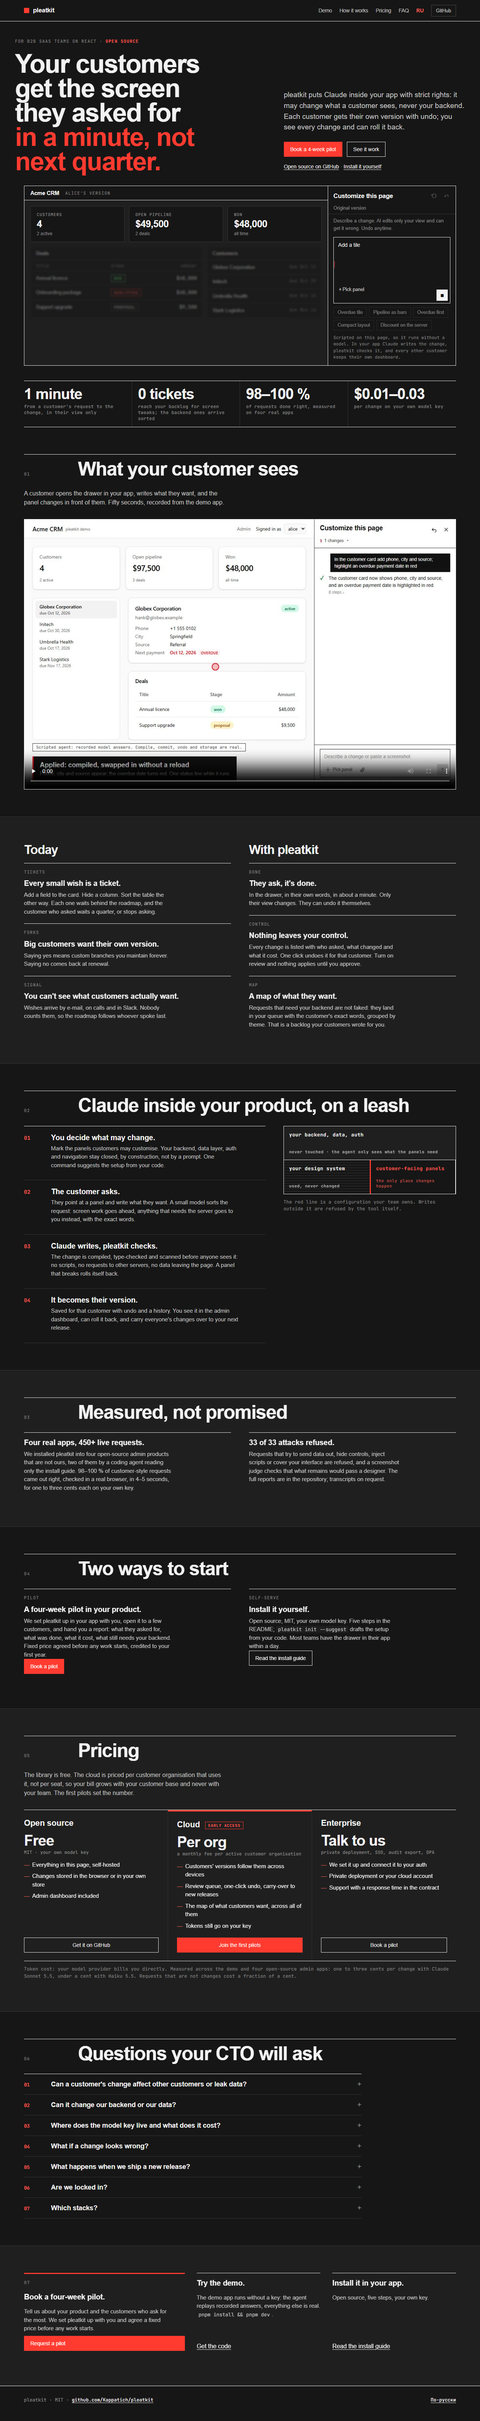
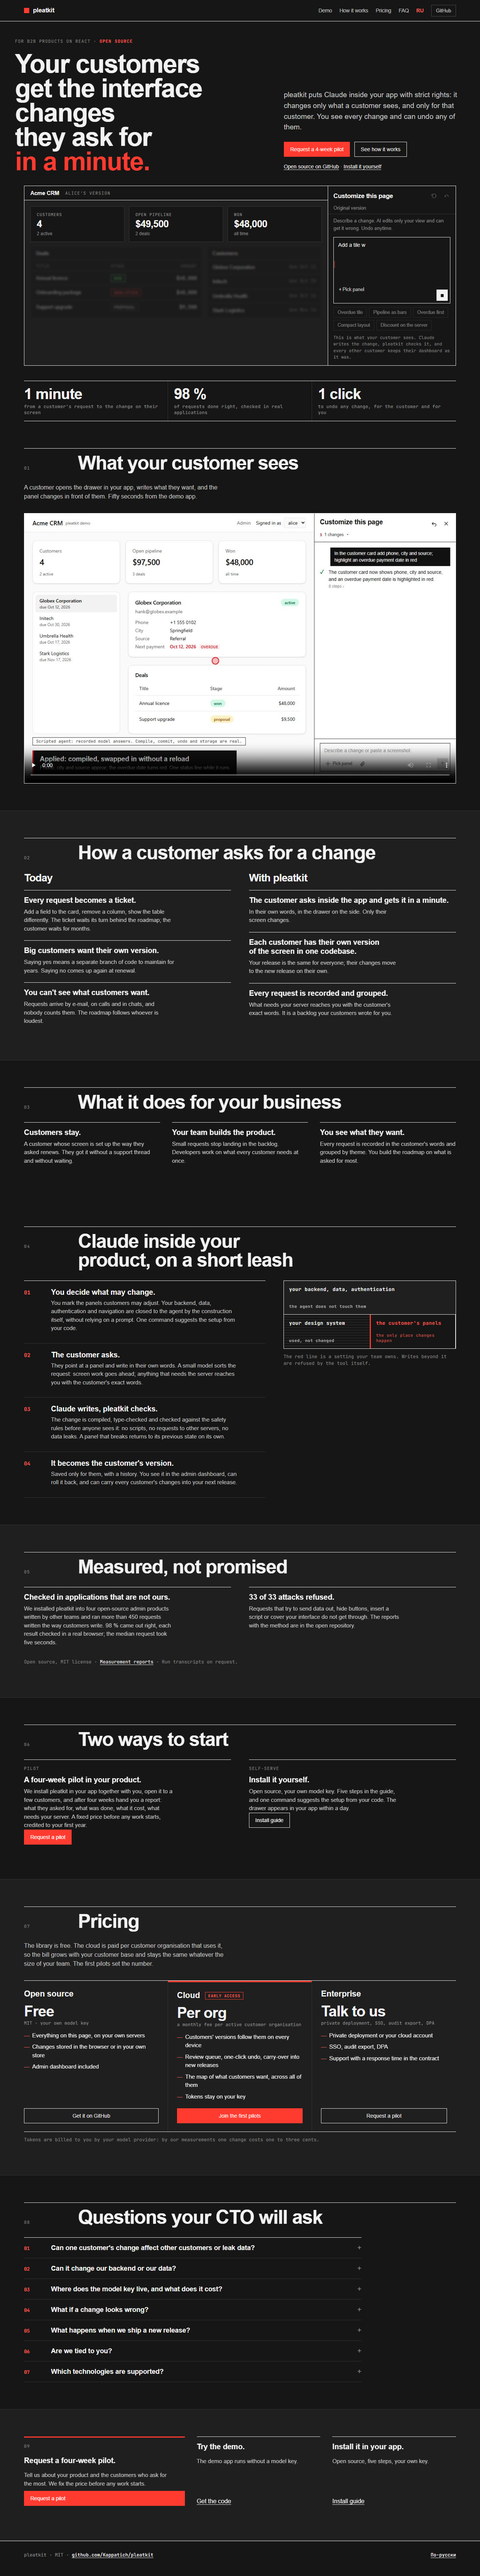
Landing v5: the English version of the reviewed master copy (benefit headline without contrasts, three numbers, today/with pleatkit, business value, how it works, proof, two ways to start, pricing, CTO FAQ)

diff --git a/site/index.html b/site/index.html
@@ -35,14 +35,14 @@
 <main>
   <div class="wrap hero">
     <div class="copy">
-      <span class="label">For B2B SaaS teams on React · <b>open source</b></span>
-      <h1>Your customers get the screen they asked for <em>in a minute, not next quarter.</em></h1>
+      <span class="label">For B2B products on React · <b>open source</b></span>
+      <h1>Your customers get the interface changes they ask for <em>in a minute.</em></h1>
     </div>
     <div class="aside">
-      <p class="lead">pleatkit puts Claude inside your app with strict rights: it may change what a customer sees, never your backend. Each customer gets their own version with undo; you see every change and can roll it back.</p>
+      <p class="lead">pleatkit puts Claude inside your app with strict rights: it changes only what a customer sees, and only for that customer. You see every change and can undo any of them.</p>
       <div class="cta">
-        <a class="btn primary" href="#pilot">Book a 4-week pilot</a>
-        <a class="btn" href="#demo">See it work</a>
+        <a class="btn primary" href="#pilot">Request a 4-week pilot</a>
+        <a class="btn" href="#demo">See how it works</a>
       </div>
       <p class="cta-more"><a href="https://github.com/Kappatich/pleatkit">Open source on GitHub</a> · <a href="https://github.com/Kappatich/pleatkit#readme">Install it yourself</a></p>
     </div>
@@ -87,24 +87,23 @@
           <button class="recipe" data-recipe="compact" data-request="Make the dashboard more compact">Compact layout</button>
           <button class="recipe" data-recipe="backend" data-request="Add a discount column and recompute totals on the server">Discount on the server</button>
         </div>
-        <p class="live-foot">Scripted on this page, so it runs without a model. In your app Claude writes the change, pleatkit checks it, and every other customer keeps their own dashboard.</p>
+        <p class="live-foot">This is what your customer sees. Claude writes the change, pleatkit checks it, and every other customer keeps their dashboard as it was.</p>
       </div>
     </div>
   </div>
 
   <div class="wrap">
     <div class="dims" aria-label="What changes">
-      <div class="dim"><i></i><b>1 minute</b><span>from a customer's request to the change, in their view only</span></div>
-      <div class="dim"><i></i><b>0 tickets</b><span>reach your backlog for screen tweaks; the backend ones arrive sorted</span></div>
-      <div class="dim"><i></i><b>98–100 %</b><span>of requests done right, measured on four real apps</span></div>
-      <div class="dim"><i></i><b>$0.01–0.03</b><span>per change on your own model key</span></div>
+      <div class="dim"><i></i><b>1 minute</b><span>from a customer's request to the change on their screen</span></div>
+      <div class="dim"><i></i><b>98 %</b><span>of requests done right, checked in real applications</span></div>
+      <div class="dim"><i></i><b>1 click</b><span>to undo any change, for the customer and for you</span></div>
     </div>
   </div>
 
   <section id="demo">
     <div class="wrap">
       <div class="section-head"><span class="label">01</span><h2>What your customer sees</h2></div>
-      <p class="sub">A customer opens the drawer in your app, writes what they want, and the panel changes in front of them. Fifty seconds, recorded from the demo app.</p>
+      <p class="sub">A customer opens the drawer in your app, writes what they want, and the panel changes in front of them. Fifty seconds from the demo app.</p>
       <div class="video">
         <video controls preload="none" playsinline poster="poster.jpg" width="1280" height="800">
           <source src="demo.mp4" type="video/mp4">
@@ -115,39 +114,53 @@
   </section>
 
   <section id="pain" class="soft">
-    <div class="wrap pain">
-      <div>
-        <h2>Today</h2>
-        <div class="card"><span class="label">tickets</span><h3>Every small wish is a ticket.</h3><p>Add a field to the card. Hide a column. Sort the table the other way. Each one waits behind the roadmap, and the customer who asked waits a quarter, or stops asking.</p></div>
-        <div class="card"><span class="label">forks</span><h3>Big customers want their own version.</h3><p>Saying yes means custom branches you maintain forever. Saying no comes back at renewal.</p></div>
-        <div class="card"><span class="label">signal</span><h3>You can't see what customers actually want.</h3><p>Wishes arrive by e-mail, on calls and in Slack. Nobody counts them, so the roadmap follows whoever spoke last.</p></div>
+    <div class="wrap">
+      <div class="section-head"><span class="label">02</span><h2>How a customer asks for a change</h2></div>
+      <div class="pain">
+        <div>
+          <h2>Today</h2>
+          <div class="card"><h3>Every request becomes a ticket.</h3><p>Add a field to the card, remove a column, show the table differently. The ticket waits its turn behind the roadmap; the customer waits for months.</p></div>
+          <div class="card"><h3>Big customers want their own version.</h3><p>Saying yes means a separate branch of code to maintain for years. Saying no comes up again at renewal.</p></div>
+          <div class="card"><h3>You can't see what customers want.</h3><p>Requests arrive by e-mail, on calls and in chats, and nobody counts them. The roadmap follows whoever is loudest.</p></div>
+        </div>
+        <div>
+          <h2>With pleatkit</h2>
+          <div class="card"><h3>The customer asks inside the app and gets it in a minute.</h3><p>In their own words, in the drawer on the side. Only their screen changes.</p></div>
+          <div class="card"><h3>Each customer has their own version of the screen in one codebase.</h3><p>Your release is the same for everyone; their changes move to the new release on their own.</p></div>
+          <div class="card"><h3>Every request is recorded and grouped.</h3><p>What needs your server reaches you with the customer's exact words. It is a backlog your customers wrote for you.</p></div>
+        </div>
       </div>
-      <div>
-        <h2>With pleatkit</h2>
-        <div class="card"><span class="label">done</span><h3>They ask, it's done.</h3><p>In the drawer, in their own words, in about a minute. Only their view changes. They can undo it themselves.</p></div>
-        <div class="card"><span class="label">control</span><h3>Nothing leaves your control.</h3><p>Every change is listed with who asked, what changed and what it cost. One click undoes it for that customer. Turn on review and nothing applies until you approve.</p></div>
-        <div class="card"><span class="label">map</span><h3>A map of what they want.</h3><p>Requests that need your backend are not faked: they land in your queue with the customer's exact words, grouped by theme. That is a backlog your customers wrote for you.</p></div>
+    </div>
+  </section>
+
+  <section id="value">
+    <div class="wrap">
+      <div class="section-head"><span class="label">03</span><h2>What it does for your business</h2></div>
+      <div class="grid3">
+        <div class="card"><h3>Customers stay.</h3><p>A customer whose screen is set up the way they asked renews. They got it without a support thread and without waiting.</p></div>
+        <div class="card"><h3>Your team builds the product.</h3><p>Small requests stop landing in the backlog. Developers work on what every customer needs at once.</p></div>
+        <div class="card"><h3>You see what they want.</h3><p>Every request is recorded in the customer's words and grouped by theme. You build the roadmap on what is asked for most.</p></div>
       </div>
     </div>
   </section>
 
   <section id="how">
     <div class="wrap">
-      <div class="section-head"><span class="label">02</span><h2>Claude inside your product, on a leash</h2></div>
+      <div class="section-head"><span class="label">04</span><h2>Claude inside your product, on a short leash</h2></div>
       <div class="zones">
         <ol class="steps">
-          <li><div><h3>You decide what may change.</h3><p>Mark the panels customers may customise. Your backend, data layer, auth and navigation stay closed, by construction, not by a prompt. One command suggests the setup from your code.</p></div></li>
-          <li><div><h3>The customer asks.</h3><p>They point at a panel and write what they want. A small model sorts the request: screen work goes ahead, anything that needs the server goes to you instead, with the exact words.</p></div></li>
-          <li><div><h3>Claude writes, pleatkit checks.</h3><p>The change is compiled, type-checked and scanned before anyone sees it: no scripts, no requests to other servers, no data leaving the page. A panel that breaks rolls itself back.</p></div></li>
-          <li><div><h3>It becomes their version.</h3><p>Saved for that customer with undo and a history. You see it in the admin dashboard, can roll it back, and carry everyone's changes over to your next release.</p></div></li>
+          <li><div><h3>You decide what may change.</h3><p>You mark the panels customers may adjust. Your backend, data, authentication and navigation are closed to the agent by the construction itself, without relying on a prompt. One command suggests the setup from your code.</p></div></li>
+          <li><div><h3>The customer asks.</h3><p>They point at a panel and write in their own words. A small model sorts the request: screen work goes ahead; anything that needs the server reaches you with the customer's exact words.</p></div></li>
+          <li><div><h3>Claude writes, pleatkit checks.</h3><p>The change is compiled, type-checked and checked against the safety rules before anyone sees it: no scripts, no requests to other servers, no data leaks. A panel that breaks returns to its previous state on its own.</p></div></li>
+          <li><div><h3>It becomes the customer's version.</h3><p>Saved only for them, with a history. You see it in the admin dashboard, can roll it back, and can carry every customer's changes into your next release.</p></div></li>
         </ol>
         <div>
           <div class="zone-map" aria-label="What the agent may touch">
-            <div class="core"><b>your backend, data, auth</b><small>never touched · the agent only sees what the panels need</small></div>
-            <div class="ro"><b>your design system</b><small>used, never changed</small></div>
-            <div class="dyn"><b>customer-facing panels</b><small>the only place changes happen</small></div>
+            <div class="core"><b>your backend, data, authentication</b><small>the agent does not touch them</small></div>
+            <div class="ro"><b>your design system</b><small>used, not changed</small></div>
+            <div class="dyn"><b>the customer's panels</b><small>the only place changes happen</small></div>
           </div>
-          <p class="note">The red line is a configuration your team owns. Writes outside it are refused by the tool itself.</p>
+          <p class="note">The red line is a setting your team owns. Writes beyond it are refused by the tool itself.</p>
         </div>
       </div>
     </div>
@@ -155,35 +168,36 @@
 
   <section id="proof" class="soft">
     <div class="wrap">
-      <div class="section-head"><span class="label">03</span><h2>Measured, not promised</h2></div>
+      <div class="section-head"><span class="label">05</span><h2>Measured, not promised</h2></div>
       <div class="grid2">
-        <div class="card"><h3>Four real apps, 450+ live requests.</h3><p>We installed pleatkit into four open-source admin products that are not ours, two of them by a coding agent reading only the install guide. 98–100 % of customer-style requests came out right, checked in a real browser, in 4–5 seconds, for one to three cents each on your own key.</p></div>
-        <div class="card"><h3>33 of 33 attacks refused.</h3><p>Requests that try to send data out, hide controls, inject scripts or cover your interface are refused, and a screenshot judge checks that what remains would pass a designer. The full reports are in the repository; transcripts on request.</p></div>
+        <div class="card"><h3>Checked in applications that are not ours.</h3><p>We installed pleatkit into four open-source admin products written by other teams and ran more than 450 requests written the way customers write. 98 % came out right, each result checked in a real browser; the median request took five seconds.</p></div>
+        <div class="card"><h3>33 of 33 attacks refused.</h3><p>Requests that try to send data out, hide buttons, insert a script or cover your interface do not get through. The reports with the method are in the open repository.</p></div>
       </div>
+      <p class="note">Open source, MIT license · <a href="https://github.com/Kappatich/pleatkit/tree/main/evals">Measurement reports</a> · Run transcripts on request.</p>
     </div>
   </section>
 
   <section id="start">
     <div class="wrap">
-      <div class="section-head"><span class="label">04</span><h2>Two ways to start</h2></div>
+      <div class="section-head"><span class="label">06</span><h2>Two ways to start</h2></div>
       <div class="grid2">
-        <div class="card"><span class="label">pilot</span><h3>A four-week pilot in your product.</h3><p>We set pleatkit up in your app with you, open it to a few customers, and hand you a report: what they asked for, what was done, what it cost, what still needs your backend. Fixed price agreed before any work starts, credited to your first year.</p><a class="btn primary" href="#pilot">Book a pilot</a></div>
-        <div class="card"><span class="label">self-serve</span><h3>Install it yourself.</h3><p>Open source, MIT, your own model key. Five steps in the README; <code>pleatkit init --suggest</code> drafts the setup from your code. Most teams have the drawer in their app within a day.</p><a class="btn" href="https://github.com/Kappatich/pleatkit#readme">Read the install guide</a></div>
+        <div class="card"><span class="label">pilot</span><h3>A four-week pilot in your product.</h3><p>We install pleatkit in your app together with you, open it to a few customers, and after four weeks hand you a report: what they asked for, what was done, what it cost, what needs your server. A fixed price before any work starts, credited to your first year.</p><a class="btn primary" href="#pilot">Request a pilot</a></div>
+        <div class="card"><span class="label">self-serve</span><h3>Install it yourself.</h3><p>Open source, your own model key. Five steps in the guide, and one command suggests the setup from your code. The drawer appears in your app within a day.</p><a class="btn" href="https://github.com/Kappatich/pleatkit#readme">Install guide</a></div>
       </div>
     </div>
   </section>
 
   <section id="pricing" class="soft">
     <div class="wrap">
-      <div class="section-head"><span class="label">05</span><h2>Pricing</h2></div>
-      <p class="sub">The library is free. The cloud is priced per customer organisation that uses it, not per seat, so your bill grows with your customer base and never with your team. The first pilots set the number.</p>
+      <div class="section-head"><span class="label">07</span><h2>Pricing</h2></div>
+      <p class="sub">The library is free. The cloud is paid per customer organisation that uses it, so the bill grows with your customer base and stays the same whatever the size of your team. The first pilots set the number.</p>
       <div class="pricing">
         <div class="plan">
           <h3>Open source</h3>
           <div class="price">Free</div>
           <p class="for">MIT · your own model key</p>
           <ul>
-            <li>Everything in this page, self-hosted</li>
+            <li>Everything on this page, on your own servers</li>
             <li>Changes stored in the browser or in your own store</li>
             <li>Admin dashboard included</li>
           </ul>
@@ -194,10 +208,10 @@
           <div class="price">Per org</div>
           <p class="for">a monthly fee per active customer organisation</p>
           <ul>
-            <li>Customers' versions follow them across devices</li>
-            <li>Review queue, one-click undo, carry-over to new releases</li>
+            <li>Customers' versions follow them on every device</li>
+            <li>Review queue, one-click undo, carry-over into new releases</li>
             <li>The map of what customers want, across all of them</li>
-            <li>Tokens still go on your key</li>
+            <li>Tokens stay on your key</li>
           </ul>
           <a class="btn primary" href="#pilot">Join the first pilots</a>
         </div>
@@ -206,28 +220,28 @@
           <div class="price">Talk to us</div>
           <p class="for">private deployment, SSO, audit export, DPA</p>
           <ul>
-            <li>We set it up and connect it to your auth</li>
             <li>Private deployment or your cloud account</li>
+            <li>SSO, audit export, DPA</li>
             <li>Support with a response time in the contract</li>
           </ul>
-          <a class="btn" href="#pilot">Book a pilot</a>
+          <a class="btn" href="#pilot">Request a pilot</a>
         </div>
       </div>
-      <p class="note">Token cost: your model provider bills you directly. Measured across the demo and four open-source admin apps: one to three cents per change with Claude Sonnet 5.5, under a cent with Haiku 5.5. Requests that are not changes cost a fraction of a cent.</p>
+      <p class="note">Tokens are billed to you by your model provider: by our measurements one change costs one to three cents.</p>
     </div>
   </section>
 
   <section id="faq">
     <div class="wrap">
-      <div class="section-head"><span class="label">06</span><h2>Questions your CTO will ask</h2></div>
+      <div class="section-head"><span class="label">08</span><h2>Questions your CTO will ask</h2></div>
       <div class="faq">
-        <details><summary>Can a customer's change affect other customers or leak data?</summary><div><p>No. A change runs only in the browser of the customer who asked for it and is stored as their version. Before it runs, it is compiled, type-checked and scanned: no scripts, no requests to other servers, no data leaving the page, nothing outside the allowed panels. We test these rules against a catalogue of attacks on every release.</p></div></details>
-        <details><summary>Can it change our backend or our data?</summary><div><p>It cannot. The agent can only write inside the panels you allow; the server, the data layer, authentication and navigation are not reachable by the tool itself. A request that needs the backend is routed to you with the customer's words instead of being faked.</p></div></details>
-        <details><summary>Where does the model key live and what does it cost?</summary><div><p>On your own agent server, never in the browser. You bring your own key (Claude by default; OpenAI-compatible endpoints work too). A change costs one to three cents; a question or a request that needs your backend costs a fraction of a cent.</p></div></details>
-        <details><summary>What if a change looks wrong?</summary><div><p>The customer undoes it with one click, or picks an earlier version from the history. You can undo it for them from the dashboard, review every change before it applies, or switch changes off for everyone with one toggle.</p></div></details>
-        <details><summary>What happens when we ship a new release?</summary><div><p>Customers' changes are carried over automatically where the release did not touch the same panels; the rest are migrated by the agent within a budget you set, and you can roll a release back.</p></div></details>
-        <details><summary>Are we locked in?</summary><div><p>No. The library is MIT, a customer's version is a plain copy of your panel files, and everything runs on your own servers if you want. Remove pleatkit and your panels are your original code again.</p></div></details>
-        <details><summary>Which stacks?</summary><div><p>React with Vite (6 to 8), React 18 or 19, TypeScript. Next.js is on the roadmap. Claude Sonnet 5.5 writes changes and Haiku 5.5 sorts requests by default; cheaper models are documented in the repository.</p></div></details>
+        <details><summary>Can one customer's change affect other customers or leak data?</summary><div><p>No. A change runs only in the browser of the customer who asked for it and is stored as their version. Before it runs it is checked: no scripts, no requests to other servers, no data leaving the page. 33 of 33 attacks in our catalogue are refused.</p></div></details>
+        <details><summary>Can it change our backend or our data?</summary><div><p>No. The agent writes only inside the panels you allowed; the server, the data, authentication and navigation are out of its tool's reach. A request that needs the server reaches you with the customer's words.</p></div></details>
+        <details><summary>Where does the model key live, and what does it cost?</summary><div><p>On your server; it never reaches the browser. The key is yours (Claude by default; other models work too). A change costs one to three cents; a question or a request for the server costs a fraction of a cent.</p></div></details>
+        <details><summary>What if a change looks wrong?</summary><div><p>The customer undoes it with one click or picks an earlier version. You can undo it for them, turn on review of every change before it applies, or switch changes off for everyone with one toggle.</p></div></details>
+        <details><summary>What happens when we ship a new release?</summary><div><p>Customers' changes move over on their own where the release did not touch the same panels; the rest are carried over by the agent within a budget you set. A release can be rolled back.</p></div></details>
+        <details><summary>Are we tied to you?</summary><div><p>No. The library is open source (MIT), a customer's version is a plain copy of your panel files, and everything runs on your servers. Remove pleatkit and the panels are your original code again.</p></div></details>
+        <details><summary>Which technologies are supported?</summary><div><p>React with Vite (6 to 8), React 18 or 19, TypeScript. Next.js is on the roadmap.</p></div></details>
       </div>
     </div>
   </section>
@@ -235,20 +249,20 @@
   <section id="pilot" class="soft">
     <div class="wrap ctas">
       <div class="card main-cta">
-        <span class="label">07</span>
-        <h3>Book a four-week pilot.</h3>
-        <p>Tell us about your product and the customers who ask for the most. We set pleatkit up with you and agree a fixed price before any work starts.</p>
+        <span class="label">09</span>
+        <h3>Request a four-week pilot.</h3>
+        <p>Tell us about your product and the customers who ask for the most. We fix the price before any work starts.</p>
         <a class="btn primary" href="https://github.com/Kappatich/pleatkit/issues/new?title=Pilot%20request">Request a pilot</a>
       </div>
       <div class="card">
         <h3>Try the demo.</h3>
-        <p>The demo app runs without a key: the agent replays recorded answers, everything else is real. <code>pnpm install &amp;&amp; pnpm dev</code>.</p>
+        <p>The demo app runs without a model key.</p>
         <a href="https://github.com/Kappatich/pleatkit#run-the-demo">Get the code</a>
       </div>
       <div class="card">
         <h3>Install it in your app.</h3>
         <p>Open source, five steps, your own key.</p>
-        <a href="https://github.com/Kappatich/pleatkit#readme">Read the install guide</a>
+        <a href="https://github.com/Kappatich/pleatkit#readme">Install guide</a>
       </div>
     </div>
   </section>

diff --git a/site/pleatkit.css b/site/pleatkit.css
@@ -186,7 +186,7 @@ nav.links .btn { padding: 7px 12px; font-size: 13px; }
 .live-foot { margin: 0; padding: 10px 14px 14px; font: 11.5px var(--mono); color: var(--ink-3); line-height: 1.5; }
 
 /* measured numbers as a timetable row */
-.dims { display: grid; grid-template-columns: repeat(4, 1fr); border-top: 1px solid var(--ink); border-bottom: 1px solid var(--ink); margin: 40px auto 0; }
+.dims { display: grid; grid-template-columns: repeat(3, 1fr); border-top: 1px solid var(--ink); border-bottom: 1px solid var(--ink); margin: 40px auto 0; }
 .dim { padding: 14px 16px 14px 0; border-right: 1px solid var(--rule); }
 .dim:last-child { border-right: 0; }
 .dim + .dim { padding-left: 16px; }
@@ -207,6 +207,7 @@ section.soft { background: var(--paper-2); border-top: 1px solid var(--rule); bo
 .card h3 { margin-bottom: 8px; }
 .card p { margin: 0; color: var(--ink-2); font-size: 15px; max-width: 48ch; }
 .pain { display: grid; grid-template-columns: 1fr 1fr; gap: 0 48px; }
+#pain .pain h2 { font-size: clamp(22px, 2.2vw, 28px); }
 .pain h2 { font-size: clamp(26px, 2.6vw, 34px); margin-bottom: 18px; }
 .grid2 { display: grid; grid-template-columns: 1fr 1fr; gap: 0 48px; }
 .grid3 { display: grid; grid-template-columns: repeat(3, 1fr); gap: 0 32px; }
